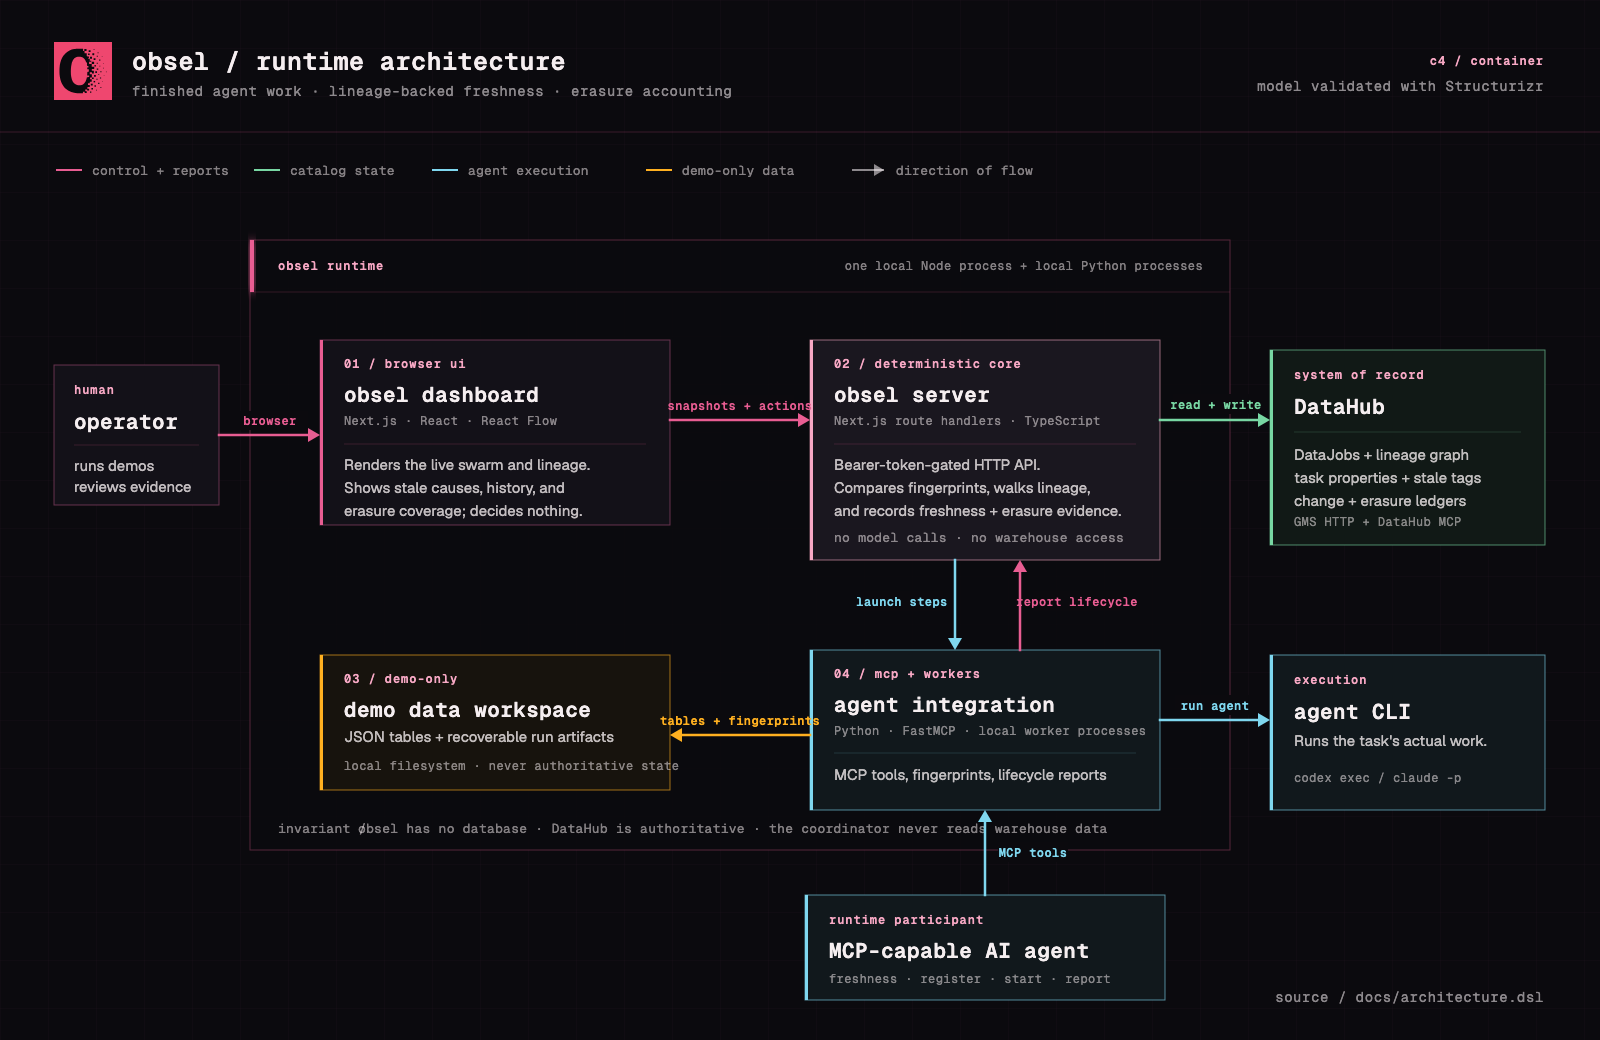
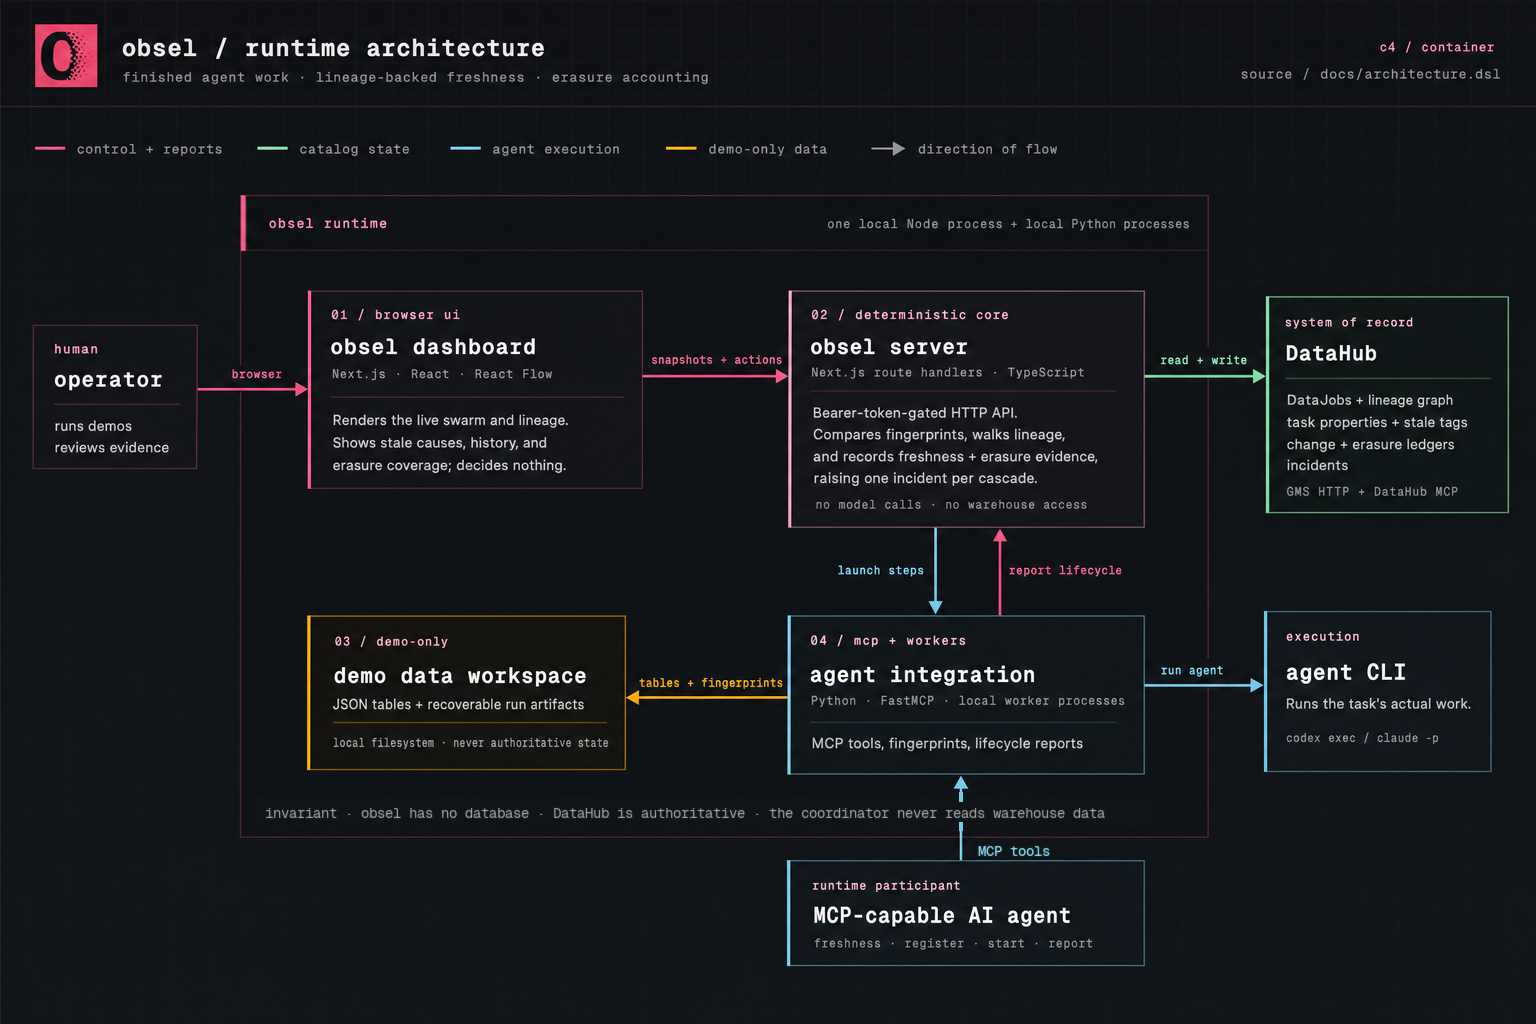
Redraw the README architecture diagram with current facts
Same layout, boxes and flows as before, regenerated at 1536x1024 in the
dashboard's own tokens. Content updates: the server raises one incident
per cascade, DataHub's list gains incidents, the invariant line's stray
ø is gone, and the corner note now names the DSL as the source rather
than claiming a Structurizr-validated render, which this image is not.
The caption follows. Drawn with gpt-image generation through Codex, the
invariant line and MCP tools label re-set in real Geist Mono.

diff --git a/README.md b/README.md
@@ -448,7 +448,7 @@ with one CLI cannot be read as evidence about both. See
 
 [![The runtime architecture: an operator's browser talks to the obsel dashboard, which talks to the obsel server, which reads and writes DataHub. The server launches agent workers through the agent integration layer, which runs a real agent CLI and keeps demo tables on the local filesystem. An MCP-capable agent joins through the same MCP tools.](docs/images/architecture.png)](docs/images/architecture.png)
 
-<div align="center"><em>The container diagram, modeled in Structurizr from <a href="docs/architecture.dsl"><code>docs/architecture.dsl</code></a>. Click for full size.</em></div>
+<div align="center"><em>The container diagram, drawn from the model in <a href="docs/architecture.dsl"><code>docs/architecture.dsl</code></a>. Click for full size.</em></div>
 
 ```
 app/                     routing, and the seventeen HTTP routes
